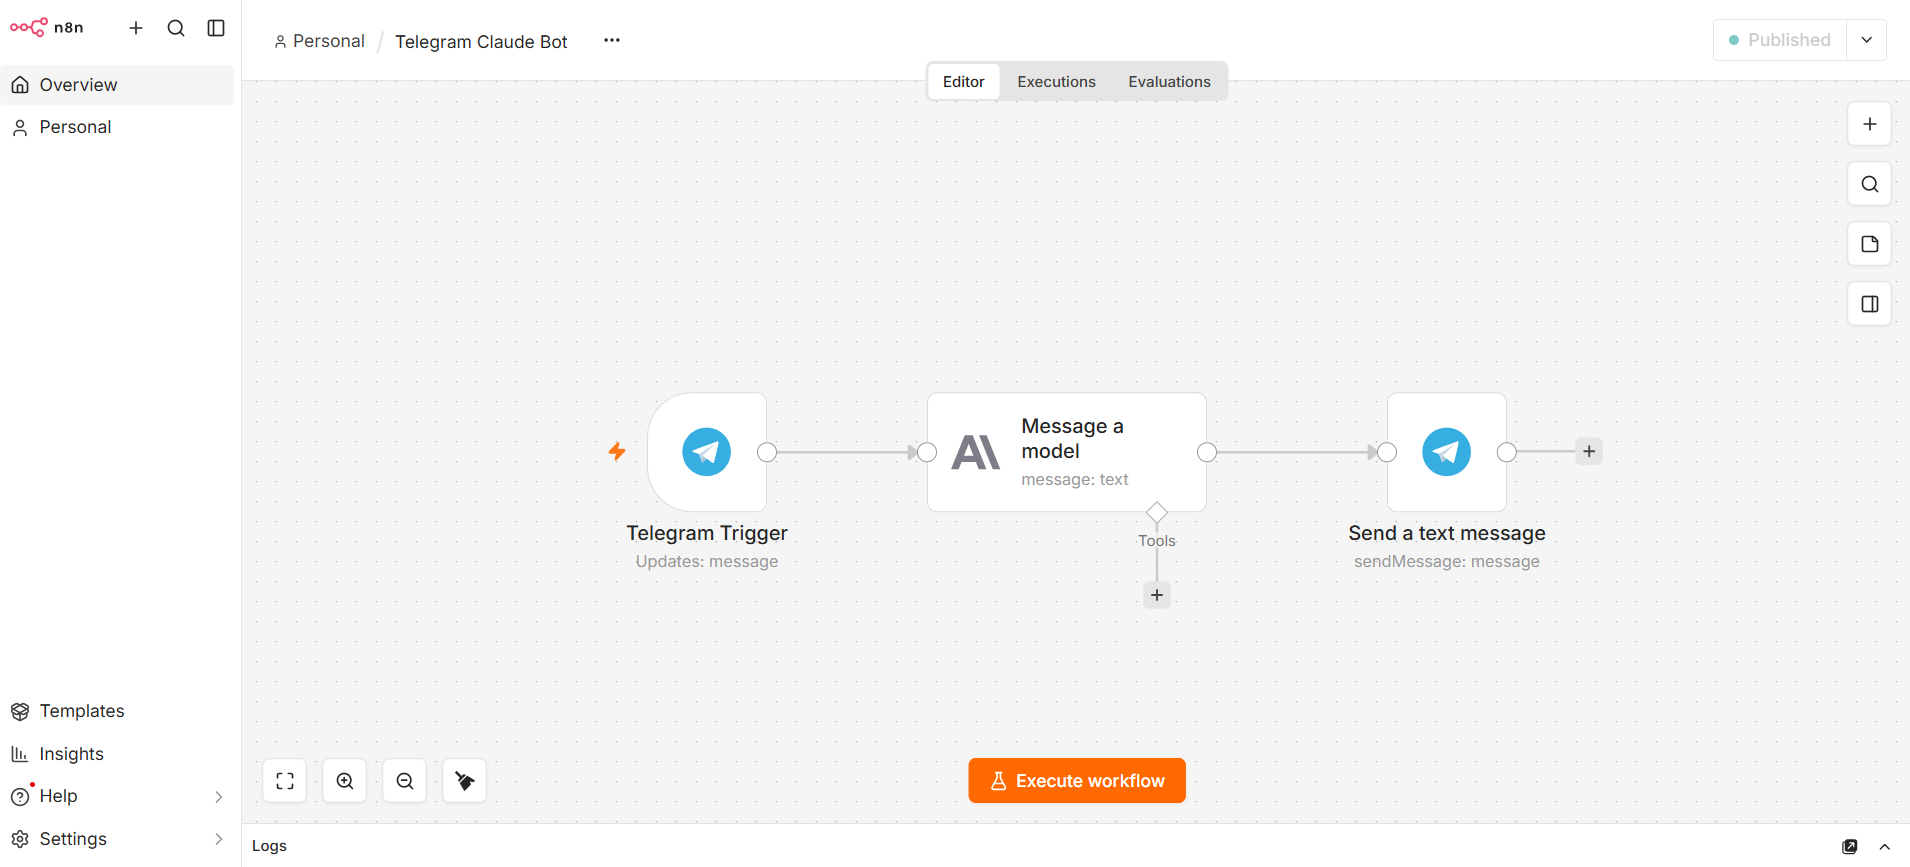
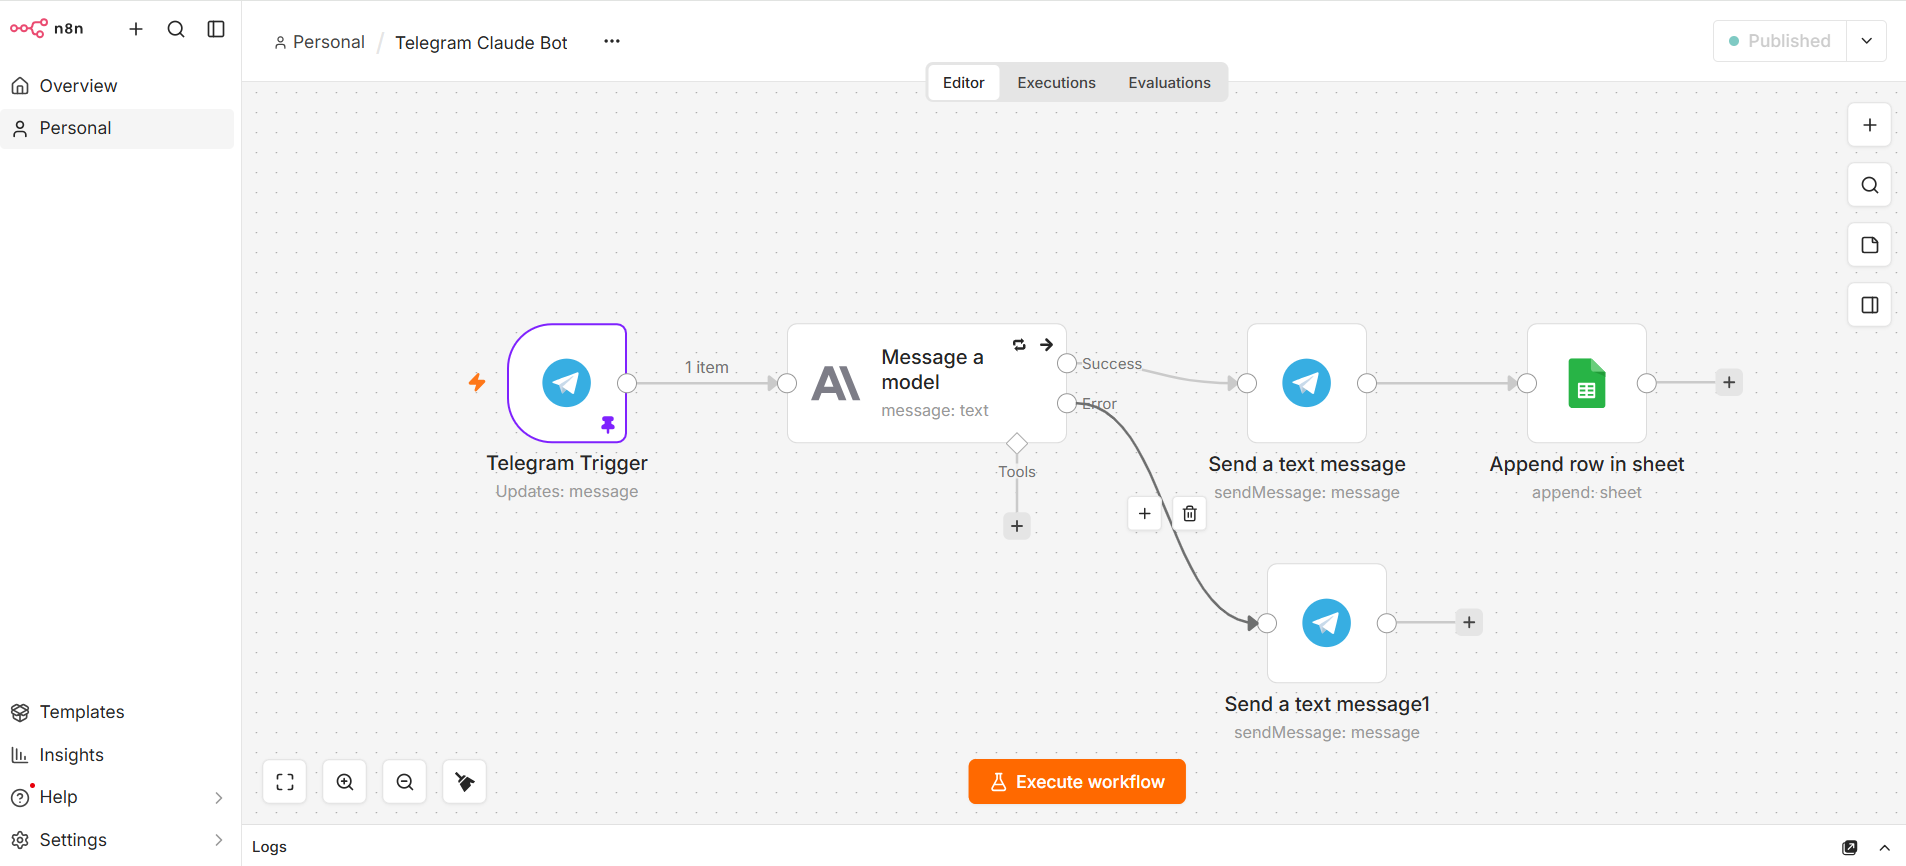
Add error handling, Google Sheets logging, system prompt

diff --git a/README.md b/README.md
@@ -9,6 +9,8 @@ A Telegram chatbot built in n8n. Messages sent to the bot are answered by Claude
 1. **Telegram Trigger** receives each incoming message through a webhook.
 2. **Message a model** (Anthropic Claude) sends the text to Claude with a system prompt.
 3. **Send a text message** returns Claude's reply to the same Telegram chat.
+4. Logs every conversation (time, chat ID, user, question, answer) to Google Sheets
+5. If the Claude API fails, an error branch sends the user a friendly fallback message
 
 ## Stack
 
@@ -28,4 +30,4 @@ A Telegram chatbot built in n8n. Messages sent to the bot are answered by Claude
 ## Notes
 
 - A Telegram bot can only have one active webhook, so test runs and a published workflow cannot listen at the same time.
-- Planned next: error handling, Google Sheets logging of conversations, and deployment to a VPS with a fixed domain.
+- Planned next: deployment to a VPS with a fixed domain, so ngrok is no longer needed.
